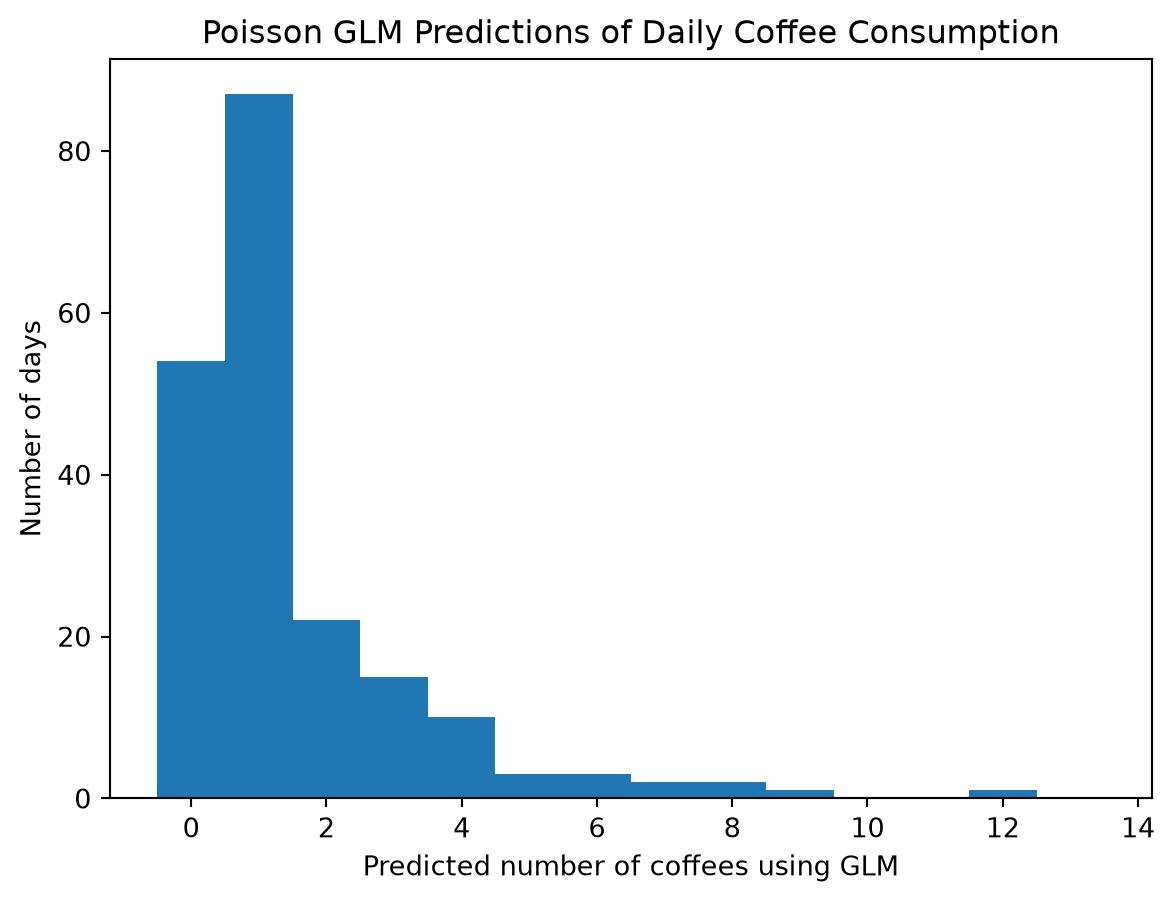
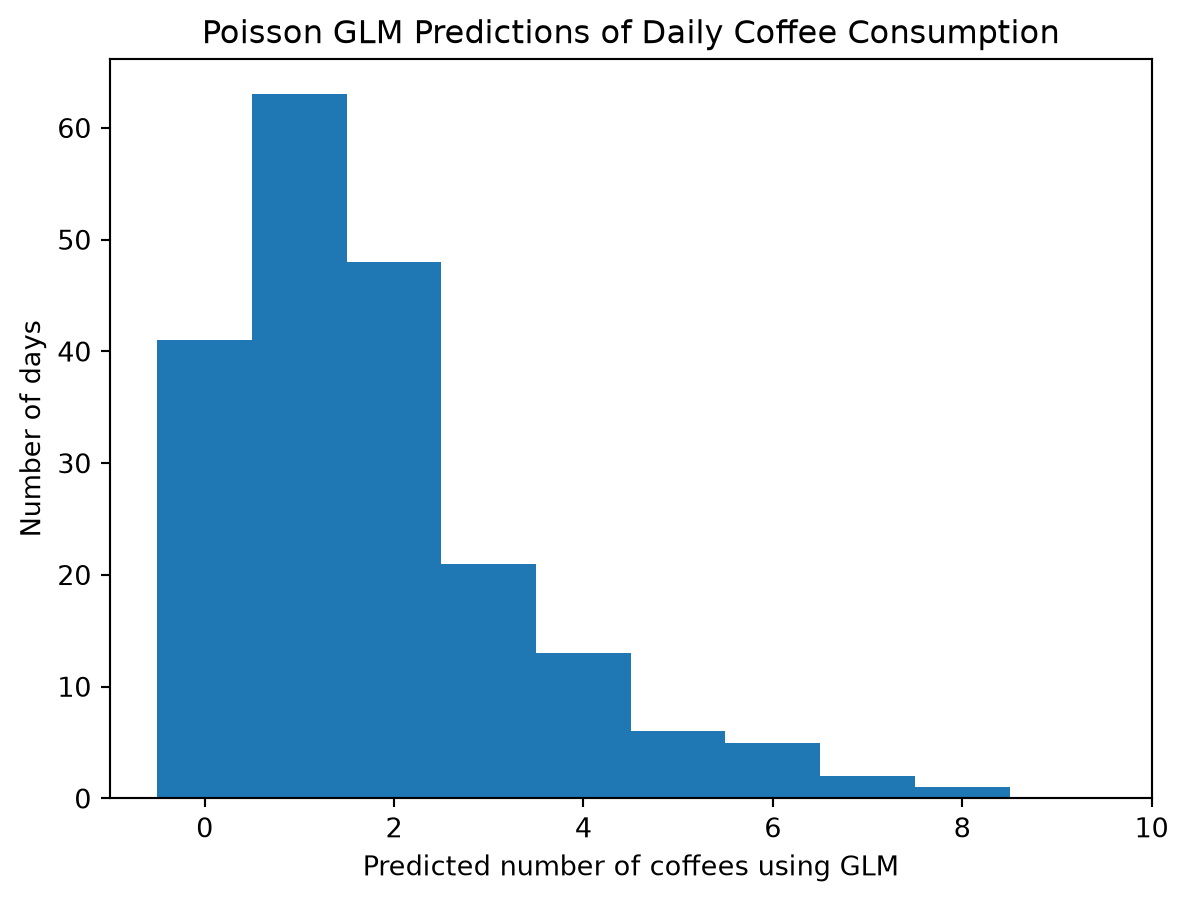
final revisions

diff --git a/_book/4_Models.html b/_book/4_Models.html
@@ -308,28 +308,28 @@ g(\mu_i) = g\left(E[Y_i \mid X_i]\right)
 <td>Normal</td>
 <td>Positive or negative, continuous, approximately symmetric</td>
 <td>Linear</td>
-<td><span class="math inline">\(\eta_i = \mu_i\)</span></td>
+<td><span class="math inline">\(g(\mu_i) = \mu_i\)</span></td>
 <td></td>
 </tr>
 <tr class="even">
 <td>Binomial</td>
 <td>Binary outcome or proportion</td>
 <td>Logistic</td>
-<td><span class="math inline">\(\eta_i = \log\left(\frac{\mu_i}{1-\mu_i}\right)\)</span></td>
+<td><span class="math inline">\(g(\mu_i) = \log\left(\frac{\mu_i}{1-\mu_i}\right)\)</span></td>
 <td></td>
 </tr>
 <tr class="odd">
 <td>Poisson</td>
 <td>Positive integer counts</td>
 <td>Poisson</td>
-<td><span class="math inline">\(\eta_i = \log(\mu_i)\)</span></td>
+<td><span class="math inline">\(g(\mu_i) = \log(\mu_i)\)</span></td>
 <td></td>
 </tr>
 <tr class="even">
 <td>Gamma</td>
 <td>Positive, continuous, right-skewed</td>
 <td>Gamma</td>
-<td><span class="math inline">\(\eta_i = 1/\mu_i\)</span> or <span class="math inline">\(\eta_i = \log(\mu_i)\)</span></td>
+<td><span class="math inline">\(g(\mu_i) = 1/\mu_i\)</span> or <span class="math inline">\(\eta_i = \log(\mu_i)\)</span></td>
 <td></td>
 </tr>
 </tbody>
@@ -346,7 +346,7 @@ g(\mu_i) = g\left(E[Y_i \mid X_i]\right)
 </li>
 <li>Whether or not it was a work day - yes/no based on 50/50 chance</li>
 </ul>
-<div id="b7d3648b" class="cell" data-execution_count="1">
+<div id="6649ee00" class="cell" data-execution_count="1">
 <div class="code-copy-outer-scaffold"><div class="sourceCode cell-code" id="cb1"><pre class="sourceCode python code-with-copy"><code class="sourceCode python"><span id="cb1-1"><a href="#cb1-1" aria-hidden="true" tabindex="-1"></a><span class="im">import</span> numpy <span class="im">as</span> np</span>
 <span id="cb1-2"><a href="#cb1-2" aria-hidden="true" tabindex="-1"></a></span>
 <span id="cb1-3"><a href="#cb1-3" aria-hidden="true" tabindex="-1"></a><span class="co"># created simulated data</span></span>
@@ -359,7 +359,7 @@ g(\mu_i) = g\left(E[Y_i \mid X_i]\right)
 <span id="cb1-10"><a href="#cb1-10" aria-hidden="true" tabindex="-1"></a>Y_coffee <span class="op">=</span> np.random.poisson(lam)</span></code></pre></div><button title="Copy to Clipboard" class="code-copy-button"><i class="bi"></i></button></div>
 </div>
 <p>A histogram was created to see the distribution of number of coffees consumed.</p>
-<div id="7533335a" class="cell" data-execution_count="2">
+<div id="a25abbfd" class="cell" data-execution_count="2">
 <div class="code-copy-outer-scaffold"><div class="sourceCode cell-code" id="cb2"><pre class="sourceCode python code-with-copy"><code class="sourceCode python"><span id="cb2-1"><a href="#cb2-1" aria-hidden="true" tabindex="-1"></a><span class="im">import</span> matplotlib.pyplot <span class="im">as</span> plt</span>
 <span id="cb2-2"><a href="#cb2-2" aria-hidden="true" tabindex="-1"></a></span>
 <span id="cb2-3"><a href="#cb2-3" aria-hidden="true" tabindex="-1"></a>plt.hist(Y_coffee, bins<span class="op">=</span>np.arange(Y_coffee.<span class="bu">max</span>() <span class="op">+</span> <span class="dv">2</span>) <span class="op">-</span> <span class="fl">0.5</span>)</span>
@@ -379,7 +379,7 @@ g(\mu_i) = g\left(E[Y_i \mid X_i]\right)
 </div>
 <p>The response is a discrete count variable and, as shown by the histogram, is clearly not normally distributed. This makes this dataset a good candidate for GLM.</p>
 <p>In order to demonstrate the effectiveness of the GLM, a linear model was first used to predict the number of coffees consumed, assuming a normal distribution.</p>
-<div id="5e8269d5" class="cell" data-execution_count="3">
+<div id="6e233fe7" class="cell" data-execution_count="3">
 <div class="code-copy-outer-scaffold"><div class="sourceCode cell-code" id="cb3"><pre class="sourceCode python code-with-copy"><code class="sourceCode python"><span id="cb3-1"><a href="#cb3-1" aria-hidden="true" tabindex="-1"></a><span class="co"># combine features</span></span>
 <span id="cb3-2"><a href="#cb3-2" aria-hidden="true" tabindex="-1"></a>X <span class="op">=</span> np.column_stack((X_stress, X_sleep, X_work))</span>
 <span id="cb3-3"><a href="#cb3-3" aria-hidden="true" tabindex="-1"></a></span>
@@ -397,7 +397,7 @@ g(\mu_i) = g\left(E[Y_i \mid X_i]\right)
 <span id="cb3-15"><a href="#cb3-15" aria-hidden="true" tabindex="-1"></a>Y_coffee_pred_linear <span class="op">=</span> linear_results.predict(X)</span></code></pre></div><button title="Copy to Clipboard" class="code-copy-button"><i class="bi"></i></button></div>
 </div>
 <p>A histogram was created to show the results of the linear model predictions.</p>
-<div id="8754ab57" class="cell" data-execution_count="4">
+<div id="200eaa55" class="cell" data-execution_count="4">
 <div class="code-copy-outer-scaffold"><div class="sourceCode cell-code" id="cb4"><pre class="sourceCode python code-with-copy"><code class="sourceCode python"><span id="cb4-1"><a href="#cb4-1" aria-hidden="true" tabindex="-1"></a>plt.hist(Y_coffee_pred_linear, bins<span class="op">=</span><span class="dv">10</span>)</span>
 <span id="cb4-2"><a href="#cb4-2" aria-hidden="true" tabindex="-1"></a></span>
 <span id="cb4-3"><a href="#cb4-3" aria-hidden="true" tabindex="-1"></a>plt.xlabel(<span class="st">"Predicted number of coffees using linear model"</span>)</span>
@@ -415,7 +415,7 @@ g(\mu_i) = g\left(E[Y_i \mid X_i]\right)
 </div>
 <p>The histogram shows that the linear model predicted a negative number of coffees on some days, which does not make sense.</p>
 <p>Next, the GLM approach was used to develop a model for predicting the number of daily coffees consumed. It was assumed that the <span class="math inline">\(\beta\)</span> factors were unknown in the Poisson expression for the number of coffees consumed on a given day. Therefore, they needed to be calculated.</p>
-<div id="64b037fe" class="cell" data-execution_count="5">
+<div id="21a0db47" class="cell" data-execution_count="5">
 <div class="code-copy-outer-scaffold"><div class="sourceCode cell-code" id="cb5"><pre class="sourceCode python code-with-copy"><code class="sourceCode python"><span id="cb5-1"><a href="#cb5-1" aria-hidden="true" tabindex="-1"></a><span class="co"># combine features and add intercept</span></span>
 <span id="cb5-2"><a href="#cb5-2" aria-hidden="true" tabindex="-1"></a>X <span class="op">=</span> np.column_stack((X_stress, X_sleep, X_work))</span>
 <span id="cb5-3"><a href="#cb5-3" aria-hidden="true" tabindex="-1"></a>X <span class="op">=</span> sm.add_constant(X)</span>
@@ -430,12 +430,12 @@ g(\mu_i) = g\left(E[Y_i \mid X_i]\right)
 <span id="cb5-12"><a href="#cb5-12" aria-hidden="true" tabindex="-1"></a><span class="co"># see calculated beta factors used to create Y_coffee</span></span>
 <span id="cb5-13"><a href="#cb5-13" aria-hidden="true" tabindex="-1"></a><span class="bu">print</span>(glm_results.params) </span></code></pre></div><button title="Copy to Clipboard" class="code-copy-button"><i class="bi"></i></button></div>
 <div class="cell-output cell-output-stdout">
-<pre><code>[ 0.43470584  0.22666133 -0.32584817  0.11711428]</code></pre>
+<pre><code>[ 0.52889751  0.18655339 -0.28802687  0.2359848 ]</code></pre>
 </div>
 </div>
 <p>The calculated <span class="math inline">\(\beta\)</span> factors are nearly the same as the ones used in the Poisson expression to develop Y_coffee.</p>
 <p>Next, a histogram was created to show the results of the GLM approach using the Poisson distribution.</p>
-<div id="ba0cfb9c" class="cell" data-execution_count="6">
+<div id="d8ad4d4d" class="cell" data-execution_count="6">
 <div class="code-copy-outer-scaffold"><div class="sourceCode cell-code" id="cb7"><pre class="sourceCode python code-with-copy"><code class="sourceCode python"><span id="cb7-1"><a href="#cb7-1" aria-hidden="true" tabindex="-1"></a>plt.hist(Y_coffee_pred_glm, bins<span class="op">=</span>np.arange(Y_coffee_pred_glm.<span class="bu">max</span>() <span class="op">+</span> <span class="dv">2</span>) <span class="op">-</span> <span class="fl">0.5</span>)</span>
 <span id="cb7-2"><a href="#cb7-2" aria-hidden="true" tabindex="-1"></a></span>
 <span id="cb7-3"><a href="#cb7-3" aria-hidden="true" tabindex="-1"></a>plt.xlabel(<span class="st">"Predicted number of coffees using GLM"</span>)</span>
@@ -446,7 +446,7 @@ g(\mu_i) = g\left(E[Y_i \mid X_i]\right)
 <div class="cell-output cell-output-display">
 <div>
 <figure class="figure">
-<p><img src="4_Models_files/figure-html/cell-7-output-1.png" width="587" height="451" class="figure-img"></p>
+<p><img src="4_Models_files/figure-html/cell-7-output-1.png" width="594" height="451" class="figure-img"></p>
 </figure>
 </div>
 </div>
